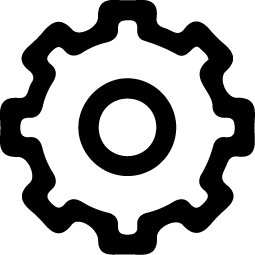
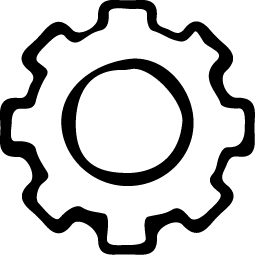
amelioiration icones home et settings

Changed region(s): [[0.0275, 0.0275, 0.9608, 0.9608], [0.2196, 0.2196, 0.7686, 0.7412]]

diff --git a/header.php b/header.php
@@ -16,12 +16,12 @@
             <div class="main-wrapper">
                 <div class="nav-login">
                     <a href="index.php">
-                        <img src="img_site/icones/home.png" alt="home" title="Home"
-                                    style="width:30; margin-right: 20px; cursor: pointer;">
+                        <img src="img_site/icones/home_1.png" alt="home" title="Home"
+                                    style="width:50; margin-right: 20px; cursor: pointer;">
                     </a>
                     <a href="settings.php">
-                        <img src="img_site/icones/settings.png" alt="paramètres" title="Paramètres"
-                                    style="width:30; cursor: pointer;">
+                        <img src="img_site/icones/settings_green.png" alt="paramètres" title="Paramètres"
+                                    style="width:50; cursor: pointer;">
                     </a>
                     <div style="width:55%"></div>
 <?php
